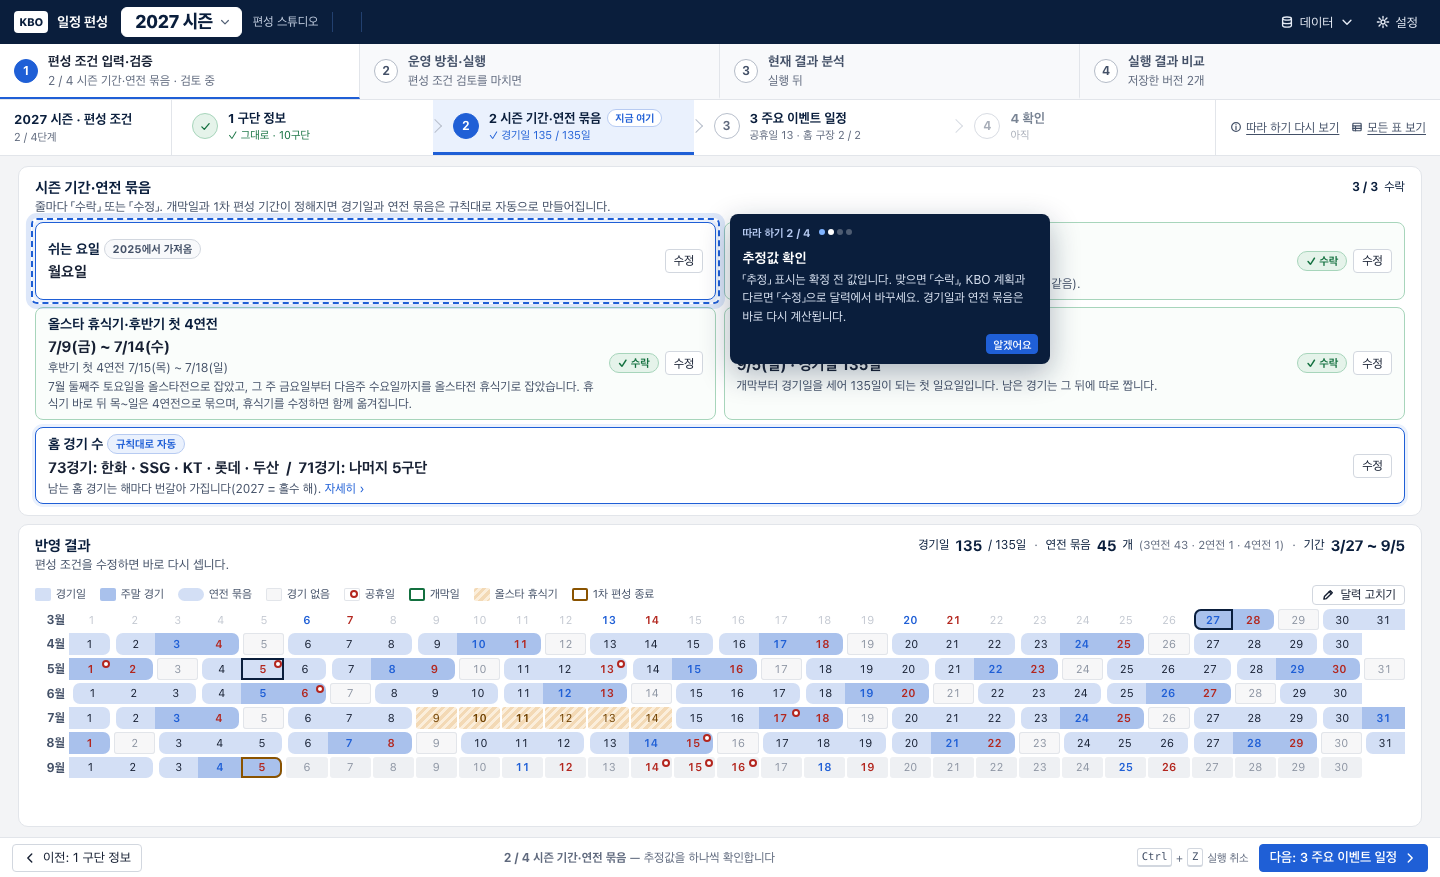
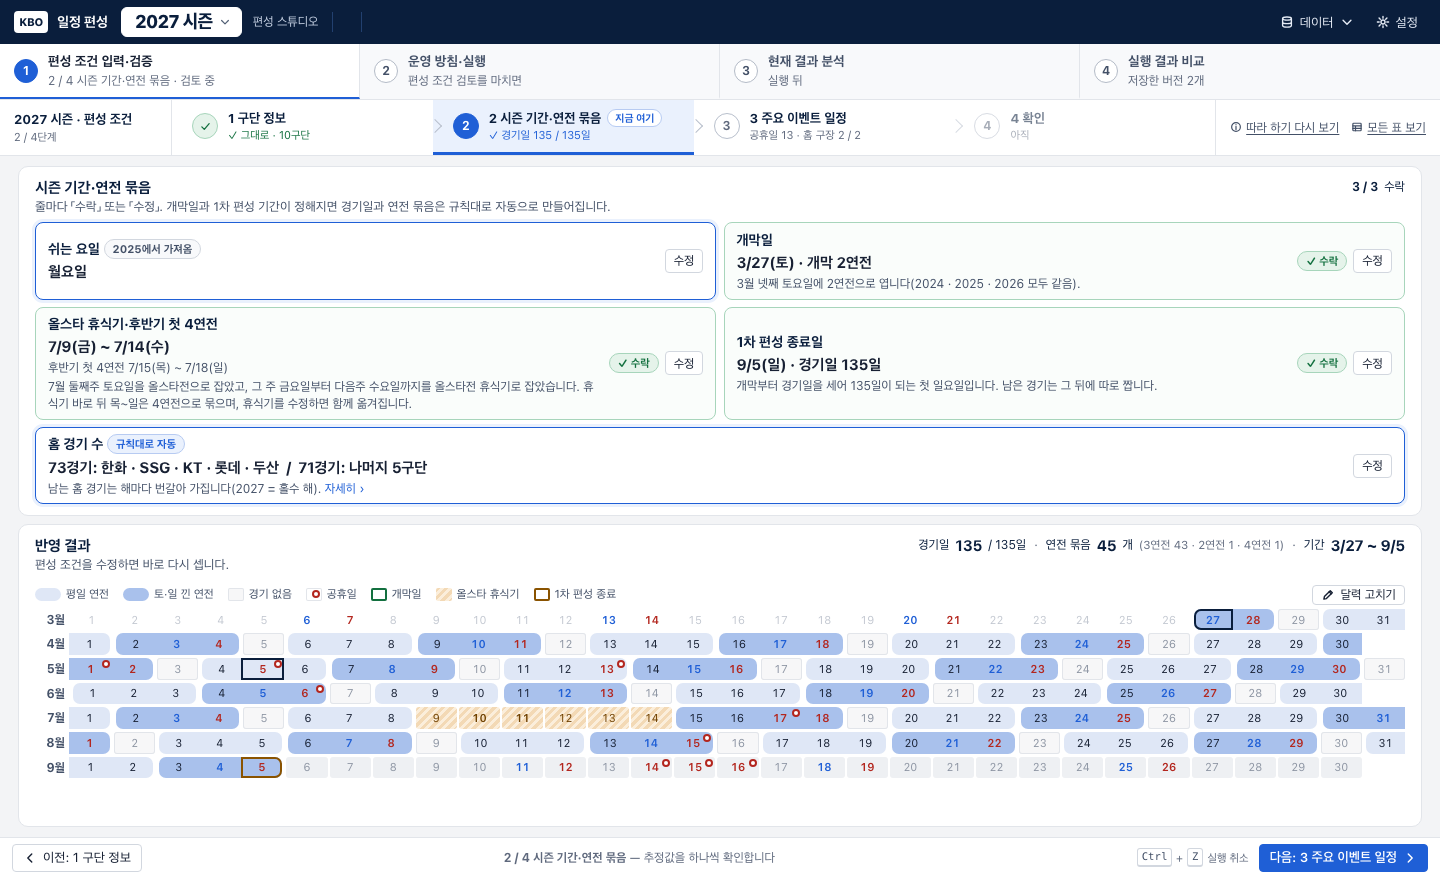
시즌 달력 연전 띠 색을 연전마다 하나로: 토·일이 낀 연전은 진한 파랑, 평일만 있는 연전은 옅은 파랑
칸마다 주말만 진하게 칠하던 것을 연전 단위로 바꿨다(토·일 칸은 글자색으로 구별). 범례도 두 가지로.

diff --git a/ui/app/studio/season-calendar.js b/ui/app/studio/season-calendar.js
@@ -369,7 +369,7 @@
     const st = app().state, s = st.settings, y = S.seasonYear(), [m0, m1] = months();
     const hol = new Map(s.holidays.map((h) => [dn(h.date), h]));
     const bs = bundles(), byDay = new Map();
-    bs.forEach((b) => { for (let k = 0; k < b.len; k++) byDay.set(b.d + k, { b, k }); });
+    bs.forEach((b) => { let wk = false; for (let k = 0; k < b.len; k++) { const w = Dates.weekday(b.d + k); if (w === 0 || w === 6) wk = true; } for (let k = 0; k < b.len; k++) byDay.set(b.d + k, { b, k, wk }); }); // wk = 토·일이 낀 연전(관중이 많은 연전 — 띠 색을 진하게)
     const evDays = new Map(st.events.map((e) => [dn(e.date), e]));
     const a = s.seasonStart ? dn(s.seasonStart) : null, e1 = s.initialEnd ? dn(s.initialEnd) : null, e2 = s.seasonEnd ? dn(s.seasonEnd) : null;
     const selSlot = !view && fs() === 2 && C.slotAt != null ? bs.find((b) => b.d === C.slotAt) : null;
@@ -397,9 +397,9 @@
         if (hh) { cls.push('hol'); tt.push(hh.name + ' · 가중치 ' + weightOf(hh)); }
         if (x) {
           cls.push('game'); if (w === 0 || w === 6) cls.push('we');
-          if (x.k === 0) cls.push('ss'); if (x.k === x.b.len - 1) cls.push('se');
+          if (x.k === 0) cls.push('ss'); if (x.k === x.b.len - 1) cls.push('se'); if (x.wk) cls.push('wk');
           if (selSlot && selSlot.d === x.b.d) cls.push('sel');
-          tt.push(x.b.len + '연전 ' + (x.k + 1) + '일째');
+          tt.push((x.wk ? '토·일 낀 ' : '평일 ') + x.b.len + '연전 ' + (x.k + 1) + '일째');
         } else if (a != null && e1 != null && n >= a && n <= e1) { cls.push('rest'); tt.push(restDay(n) ? '휴식 요일' : '경기 없는 날'); }
         else if (a != null && e2 != null && n > e1 && n <= e2) { cls.push('re'); tt.push('재편성 기간'); }
         else cls.push(a == null ? 'pre' : 'off');
@@ -433,7 +433,7 @@
   }
   function mainPane() {
     const st = app().state, y = S.seasonYear(), gd = S.gameDaysCheck(), h = CalendarGen.lengthHistogram(st.calendar), [m0, m1] = months(), f = fs();
-    const legend = f === 2 ? [['game', '경기일'], ['bnd', '연전 묶음'], ['rest', '경기 없음'], ['hol', '공휴일(빨강)'], ['sat', '토요일(파랑)'], ['sel', '고른 묶음']] : [['game', '경기일'], ['bnd', '연전 묶음'], ['hol', '공휴일(빨강)'], ['ev', '홈 구장 지정'], ['pick', '고른 날']];
+    const legend = f === 2 ? [['bnd', '평일 연전'], ['bnd wk', '토·일 낀 연전'], ['rest', '경기 없음'], ['hol', '공휴일(빨강)'], ['sat', '토요일(파랑)'], ['sel', '고른 묶음']] : [['bnd', '평일 연전'], ['bnd wk', '토·일 낀 연전'], ['hol', '공휴일(빨강)'], ['ev', '홈 구장 지정'], ['pick', '고른 날']];
     const tips = f === 2
       ? '<span>' + icon('move') + '날짜를 <b>끌면</b> 연전 묶음(2·3·4연전)</span><span>' + icon('grid') + '묶음을 <b>누르면</b> 연전 수 바꾸기 · 나누기 · 지우기</span>'
       : '<span>' + icon('target') + '날을 <b>누르면</b> 홈 구장 지정</span><span>빨간 동그라미 = 공휴일(가중치는 왼쪽 표)</span><span>연전 묶음은 2단계에서 고칩니다</span>';
@@ -461,8 +461,8 @@
   /** 검토 화면(plan-flow.js) 아래에 두는 보기 전용 달력. f3 = 주요 이벤트 일정 단계·4 확인(이벤트·공휴일 이름 표시. 날을 눌러 고치는 것은 3단계만) */
   S.seasonStripView = function (f3, tail) {
     const legend = f3
-      ? [['game', '경기일'], ['game bnd', '연전 묶음'], ['game we sat', '토요일'], ['game we sun', '일요일'], ['rest', '경기 없음'], ['lab e-hol', '공휴일'], ['as', '올스타 휴식기'], ['lab e-op', '개막전'], ['lab e-ch', '어린이날'], ['lab e-as', '올스타전'], ['lab e-4', '후반기 첫 4연전'], ['lab e-end', '1차 편성 종료']]
-      : [['game', '경기일'], ['game we', '주말 경기'], ['game bnd', '연전 묶음'], ['rest', '경기 없음'], ['hol', '공휴일'], ['op', '개막일'], ['as', '올스타 휴식기'], ['end', '1차 편성 종료']];
+      ? [['game bnd', '평일 연전'], ['game bnd wk', '토·일 낀 연전'], ['game wk sat', '토요일'], ['game wk sun', '일요일'], ['rest', '경기 없음'], ['lab e-hol', '공휴일'], ['as', '올스타 휴식기'], ['lab e-op', '개막전'], ['lab e-ch', '어린이날'], ['lab e-as', '올스타전'], ['lab e-4', '후반기 첫 4연전'], ['lab e-end', '1차 편성 종료']]
+      : [['game bnd', '평일 연전'], ['game bnd wk', '토·일 낀 연전'], ['rest', '경기 없음'], ['hol', '공휴일'], ['op', '개막일'], ['as', '올스타 휴식기'], ['end', '1차 편성 종료']];
     return '<div class="pf-cal"><div class="pf-cal-leg">' + legend.map(([c, t]) => '<span><i class="sd ' + c + '"></i>' + t + '</span>').join('') + (tail || '') + '</div>' + calendarStrip(true) + '</div>';
   };
   /** 검토 화면(plan-flow.js) 줄 안에서 펼치는 입력칸. key: opening · rest · allstar · initialEnd */
@@ -472,7 +472,7 @@
   };
   /** 검토 화면 아래 달력에서 바로 고칠 때: 수정 화면과 같은 달력(끌면 묶음, 묶음을 누르면 바꾸기·나누기·지우기) */
   S.seasonStripLive = function (tail) {
-    const legend = [['game', '경기일'], ['game we', '주말 경기'], ['game bnd', '연전 묶음'], ['rest', '경기 없음'], ['hol', '공휴일']];
+    const legend = [['game bnd', '평일 연전'], ['game bnd wk', '토·일 낀 연전'], ['rest', '경기 없음'], ['hol', '공휴일']];
     S.afterRender(placePopover);
     return '<div class="pf-cal live"><div class="pf-cal-leg">' + legend.map(([c, t]) => '<span><i class="sd ' + c + '"></i>' + t + '</span>').join('') +
       '<span class="pf-cal-tip">' + icon('move') + '날짜를 <b>끌면</b> 연전 묶음 · 묶음을 <b>누르면</b> 바꾸기·나누기·지우기<span id="scDragHint" class="sc-drag-hint"></span></span>' + (tail || '') + '</div>' +

diff --git a/ui/app/studio/plan-flow.css b/ui/app/studio/plan-flow.css
@@ -378,7 +378,6 @@ body.pf .ck-card { margin: 0; flex: 1 0 auto; display: flex; flex-direction: col
 .pf-strip .sd.re { background: #EEF0F3; color: #8D95A3; }
 .pf-strip .sd.rest, .pf-cal-leg .sd.rest { background: #F7F7F8; box-shadow: inset 0 0 0 1px var(--line); color: #8D95A3; }
 .pf-strip .sd.game, .pf-cal-leg .sd.game { background: #D3DFF5; box-shadow: none; color: var(--text); }
-.pf-strip .sd.game.we, .pf-cal-leg .sd.game.we { background: #A9C1EC; }
 .pf-strip .sd.sat { color: var(--blue); font-weight: 600; }
 .pf-strip .sd.sun, .pf-strip .sd.hol { color: var(--bad); font-weight: 600; }
 .pf-strip .sd.hol::after, .pf-cal-leg .sd.hol::after { top: 2px; right: 2px; width: 4px; height: 4px; border-radius: 50%; background: #fff; border: 2px solid var(--bad); }
@@ -608,3 +607,10 @@ button.tv-flow-blk.a { color: var(--text-2); }
 .pf-strip .sd.game.ss, .sc-strip .sd.game.ss { margin-left: 2px; border-top-left-radius: 7px; border-bottom-left-radius: 7px; }
 .pf-strip .sd.game.se, .sc-strip .sd.game.se { margin-right: 2px; border-top-right-radius: 7px; border-bottom-right-radius: 7px; }
 .pf-cal-leg i.sd.bnd { width: 26px; border-radius: 7px; }
+/* 띠 색은 연전마다 하나: 토·일이 낀 연전(wk, 관중이 많은 연전)은 진한 파랑, 평일만 있는 연전은 옅은 파랑. 토·일 칸은 글자색(토 파랑·일 빨강)으로 구별한다.
+   화~목 · 금~일이 번갈아 오므로 붙어 있는 두 연전도 대개 색이 달라 경계가 한 번 더 보인다 */
+.pf-strip, .sc-strip, .pf-cal-leg, .sc-legend { --cal-wd: #DFE7F6; --cal-wk: #A9C1EC; }
+.pf-strip .sd.game, .sc-strip .sd.game, .pf-cal-leg .sd.game { background: var(--cal-wd); }
+.pf-strip .sd.game.wk, .sc-strip .sd.game.wk, .pf-cal-leg .sd.game.wk { background: var(--cal-wk); }
+.sc-legend i.bnd { background: var(--cal-wd); border-color: var(--cal-wd); }
+.sc-legend i.bnd.wk { background: var(--cal-wk); border-color: var(--cal-wk); }

diff --git a/ui/app/studio/studio.css b/ui/app/studio/studio.css
@@ -1326,7 +1326,6 @@ svg.mc text { font-family: var(--font); }
 .sc-strip .sd.rest { background: #F7F7F8; box-shadow: inset 0 0 0 1px var(--line); color: #8D95A3; }
 .sc-strip .sd.re { background: #EEF0F3; color: #8D95A3; }
 .sc-strip .sd.game { background: #D3DFF5; color: var(--text); }
-.sc-strip .sd.game.we { background: #A9C1EC; }
 .sc-strip .sd.sat { color: var(--blue); font-weight: 600; }
 .sc-strip .sd.sun, .sc-strip .sd.hol { color: var(--bad); font-weight: 600; }
 .sc-strip .sd.hol::after { top: 3px; right: 3px; width: 5px; height: 5px; border-radius: 50%; background: #fff; border: 2px solid var(--bad); }
